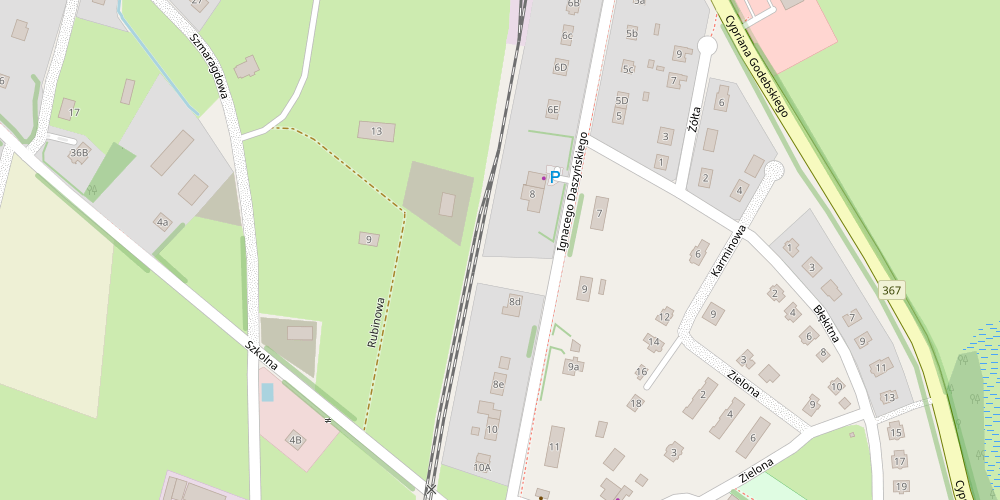
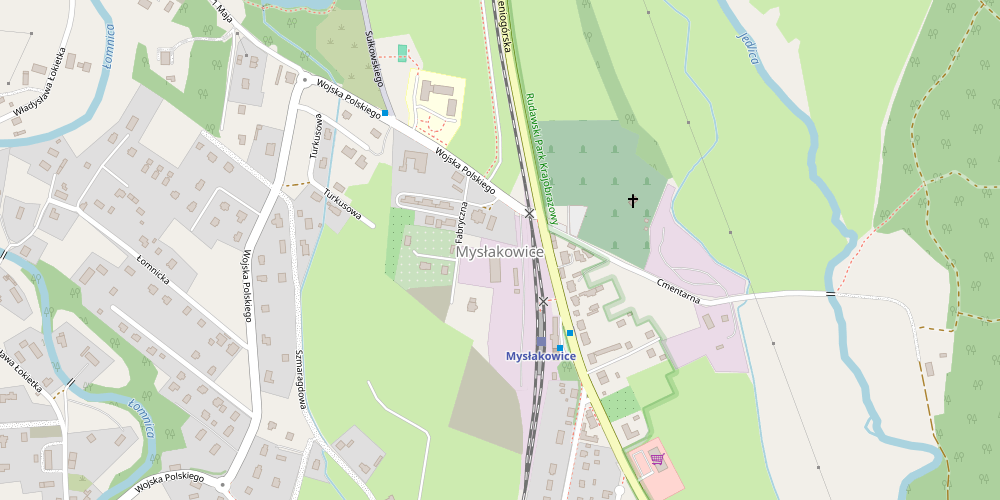
Refine contact panel typography and artwork

diff --git a/index.html b/index.html
@@ -7,15 +7,15 @@
 <title>DobraDecha — narty z charakterem</title>
 <style>
 @import url('https://fonts.googleapis.com/css2?family=Barlow+Condensed:wght@600;700;800;900&family=DM+Sans:wght@400;500;600;700&display=swap');
-:root{--heading-tracking:-.02em;--ink:#111;--paper:#f3f0e5;--pink:#ee0089;--orange:#f94600;--blue:#00c8ff;--line:rgba(17,17,17,.18)}*{box-sizing:border-box}html{scroll-behavior:smooth}body{margin:0;background:var(--paper);color:var(--ink);font-family:'DM Sans',sans-serif}a{color:inherit;text-decoration:none}.wrap{max-width:1240px;margin:auto;padding:0 5.5vw}.topbar{height:112px;border-bottom:1px solid var(--line);display:flex;align-items:center;justify-content:space-between;gap:32px;padding-left:0;padding-right:0}.brand{display:flex;align-items:center;gap:5px;white-space:nowrap;font:900 30px 'Barlow Condensed',sans-serif;letter-spacing:.015em;text-transform:uppercase}.brand-name{display:inline-flex;gap:0;color:var(--ink)}.brand-name i{font-style:normal;color:var(--ink)}.footer .brand-name,.footer .brand-name i{color:var(--paper)}.brand img{width:96px;height:50px;object-fit:contain;flex:none}.footer .brand img{width:78px;height:40px}.brand span{color:var(--pink)}nav{display:flex;align-items:center;gap:42px;margin-left:auto;font-size:15px;font-weight:700;letter-spacing:.025em}nav a:hover{color:var(--pink)}.nav-cta{background:var(--ink);color:white;padding:15px 21px;font-size:13px;font-weight:700;text-transform:uppercase;letter-spacing:.08em}.hero{min-height:660px;display:grid;grid-template-columns:1.02fr .98fr;align-items:center;padding:68px 0 74px;gap:25px;overflow:hidden}.eyebrow{display:flex;align-items:center;gap:10px;font-size:11px;font-weight:700;letter-spacing:.15em;text-transform:uppercase}.dot{width:9px;height:9px;background:var(--pink);border-radius:50%;box-shadow:0 0 0 5px #ff007f22}.hero h1{font:900 clamp(62px,9.2vw,126px)/.94 'Barlow Condensed',sans-serif;letter-spacing:var(--heading-tracking);text-transform:uppercase;margin:30px 0 25px}.hero h1 em{font-style:normal;color:var(--pink)}.hero p{max-width:450px;font-size:16px;line-height:1.7;color:#45433f}.actions{display:flex;gap:12px;margin-top:32px;align-items:center}.button{display:inline-flex;align-items:center;gap:24px;padding:16px 19px;background:var(--ink);color:white;font-size:12px;font-weight:700;text-transform:uppercase;letter-spacing:.07em}.button .arr{font-size:19px;color:var(--blue)}.text-link{font-size:12px;font-weight:700;border-bottom:1px solid var(--ink);padding:11px 0}.hero-art{position:relative;height:490px;background:var(--blue);overflow:hidden;clip-path:none}.hero-art:before{content:none}.art-label{position:absolute;z-index:1;top:24px;left:24px;font:800 12px 'Barlow Condensed';letter-spacing:.14em;text-transform:uppercase;background:var(--ink);color:white;padding:10px 12px}.hero-illustration{display:block;width:100%;height:100%;object-fit:cover}.ski{width:93px;height:430px;border:4px solid var(--ink);border-radius:60px 60px 19px 19px;position:relative;box-shadow:9px 12px 0 #111;overflow:hidden}.ski:nth-child(1){background:repeating-linear-gradient(0deg,#111 0 3px,transparent 3px 30px),linear-gradient(90deg,var(--paper) 0 49%,var(--pink) 49%)}.ski:nth-child(2){height:460px;background:repeating-linear-gradient(0deg,transparent 0 29px,#111 30px 33px),linear-gradient(90deg,var(--orange) 0 50%,var(--blue) 50%)}.ski:nth-child(3){background:repeating-linear-gradient(0deg,#111 0 3px,transparent 3px 30px),linear-gradient(90deg,var(--pink) 0 49%,var(--blue) 49%)}.ski b{position:absolute;top:50%;left:50%;transform:translate(-50%,-50%) rotate(90deg);font:900 24px 'Barlow Condensed';letter-spacing:.1em;background:var(--paper);padding:5px 8px}.art-sticker{position:absolute;z-index:2;bottom:23px;right:22px;background:var(--blue);width:95px;height:95px;border-radius:50%;display:grid;place-items:center;text-align:center;font:900 13px/1.05 'Barlow Condensed';transform:rotate(9deg);border:2px solid var(--ink)}.ticker{background:var(--ink);color:var(--paper);overflow:hidden;white-space:nowrap;padding:13px 0;font:700 14px 'Barlow Condensed';letter-spacing:.15em;text-transform:uppercase}.ticker span{color:var(--blue);padding:0 24px}.section{padding:110px 0}.section-head{display:flex;align-items:end;justify-content:space-between;gap:30px;margin-bottom:40px}.kicker{font-size:11px;letter-spacing:.15em;text-transform:uppercase;font-weight:700;color:#716e68}.section h2{font:900 clamp(45px,7vw,86px)/.9 'Barlow Condensed';letter-spacing:var(--heading-tracking);text-transform:uppercase;margin:12px 0 0}.section h2 em{font-style:normal;color:var(--pink)}.section-head p{max-width:390px;line-height:1.65;color:#555;font-size:14px}.section#narty .section-head{display:block}.section#narty .section-head p{max-width:650px;margin:22px 0 0}.cards{display:grid;grid-template-columns:repeat(3,1fr);gap:15px}.card{min-height:310px;padding:26px;display:flex;flex-direction:column;justify-content:space-between;position:relative;overflow:hidden}.card:nth-child(1){background:var(--pink)}.card:nth-child(2){background:var(--blue)}.card:nth-child(3){background:var(--orange)}.card-no{font:800 12px 'Barlow Condensed';letter-spacing:.14em}.card-art{font:900 86px/.8 'Barlow Condensed';letter-spacing:-.08em;position:absolute;right:22px;top:70px;transform:rotate(-14deg);opacity:.13}.card h3{font:900 30px/.95 'Barlow Condensed';letter-spacing:var(--heading-tracking);text-transform:uppercase;margin:0 0 8px}.card p{font-size:13px;line-height:1.5;max-width:255px;margin:0}.story{background:var(--blue);color:var(--paper);position:relative;isolation:isolate;overflow:hidden}.story:before{content:"";position:absolute;inset:0;z-index:-1;background-image:linear-gradient(90deg,var(--blue) 0%,var(--blue) 34%,rgba(0,200,255,.96) 37%,rgba(0,200,255,.5) 42%,rgba(0,200,255,0) 48%),url("skiers-background.jpg");background-position:left top,right center;background-size:100% 100%,auto 125%;background-repeat:no-repeat}.story .wrap{display:block;position:relative;z-index:1}.story .wrap>div:first-child{max-width:520px;background:var(--ink);padding:clamp(24px,3vw,42px)}.story h2{font:900 clamp(60px,8vw,100px)/.92 'Barlow Condensed';letter-spacing:var(--heading-tracking);text-transform:uppercase;margin:15px 0 25px}.story h2 em{font-style:normal;color:var(--blue)}.story-copy{max-width:460px;color:#c7c4bd;font-size:15px;line-height:1.8}.story-copy strong{color:white}.quote{font:700 26px/1.2 'Barlow Condensed';max-width:400px;margin:25px 0 0;color:var(--blue)}.contact{display:grid;grid-template-columns:1fr 1fr;gap:50px}.contact h2{margin-bottom:22px}.contact p{max-width:440px;line-height:1.7;color:#555}.contact-box{background:var(--blue);padding:35px;display:flex;flex-direction:column;justify-content:center;min-height:255px}.contact-box small{font-size:11px;font-weight:700;letter-spacing:.15em;text-transform:uppercase}.contact-box a{font:900 clamp(28px,4.3vw,52px) 'Barlow Condensed';margin:14px 0}.contact-box .fine{font-size:12px;line-height:1.6}.footer{background:var(--ink);color:white;padding:25px 0;font-size:11px}.footer .wrap{display:flex;align-items:center;justify-content:space-between}.footer a{color:var(--blue)}@media(max-width:1400px) and (min-width:1201px){.story:before{background-size:100% 100%,auto 100%}}@media(max-width:1200px){.story{background:var(--blue)}.story:before{display:none}}@media(max-width:800px){.wrap{padding:0 22px}.topbar{height:88px;gap:12px}.brand{font-size:22px;gap:4px}.brand img{width:68px;height:38px}.footer .brand img{width:58px;height:32px}nav{gap:14px;font-size:13px}nav a:not(.nav-cta){display:none}.hero{grid-template-columns:1fr;padding:55px 0 40px;gap:45px}.hero-art{height:390px}.ski{height:340px;width:72px}.ski:nth-child(2){height:370px}.hero h1{font-size:clamp(64px,14vw,100px);line-height:.98;letter-spacing:var(--heading-tracking)}.section{padding:75px 0}.section-head{display:block}.cards{grid-template-columns:1fr}.card{min-height:245px}.story{background:var(--blue)}.story:before{display:none}.story .wrap{display:block;padding-top:72px;padding-bottom:72px}.story .wrap>div:first-child{max-width:100%}.contact{grid-template-columns:1fr;gap:25px}.footer .wrap{gap:15px;flex-wrap:wrap}}@media(max-width:430px){.topbar{height:78px}.brand{font-size:20px;gap:3px}.brand img{width:56px;height:32px}.footer .brand img{width:48px;height:28px}.nav-cta{padding:10px;font-size:10px}.hero-art{height:330px}.ski{height:290px;width:58px}.ski:nth-child(2){height:315px}.hero h1{font-size:64px;line-height:1;letter-spacing:var(--heading-tracking)}.actions{align-items:flex-start;flex-direction:column}.footer .wrap{display:block}.footer .wrap>*{display:block;margin:8px 0}}
+:root{--heading-tracking:-.02em;--ink:#111;--paper:#f3f0e5;--pink:#ee0089;--orange:#f94600;--blue:#00c8ff;--line:rgba(17,17,17,.18)}*{box-sizing:border-box}html{scroll-behavior:smooth}body{margin:0;background:var(--paper);color:var(--ink);font-family:'DM Sans',sans-serif}a{color:inherit;text-decoration:none}.wrap{max-width:1240px;margin:auto;padding:0 5.5vw}.topbar{height:112px;border-bottom:1px solid var(--line);display:flex;align-items:center;justify-content:space-between;gap:32px;padding-left:0;padding-right:0}.brand{display:flex;align-items:center;gap:5px;white-space:nowrap;font:900 30px 'Barlow Condensed',sans-serif;letter-spacing:.015em;text-transform:uppercase}.brand-name{display:inline-flex;gap:0;color:var(--ink)}.brand-name i{font-style:normal;color:var(--ink)}.footer .brand-name,.footer .brand-name i{color:var(--paper)}.brand img{width:96px;height:50px;object-fit:contain;flex:none}.footer .brand img{width:78px;height:40px}.brand span{color:var(--pink)}nav{display:flex;align-items:center;gap:42px;margin-left:auto;font-size:15px;font-weight:700;letter-spacing:.025em}nav a:hover{color:var(--pink)}.hero{min-height:660px;display:grid;grid-template-columns:1.02fr .98fr;align-items:center;padding:68px 0 74px;gap:25px;overflow:hidden}.eyebrow{display:flex;align-items:center;gap:10px;font-size:11px;font-weight:700;letter-spacing:.15em;text-transform:uppercase}.dot{width:9px;height:9px;background:var(--pink);border-radius:50%;box-shadow:0 0 0 5px #ff007f22}.hero h1{font:900 clamp(62px,9.2vw,126px)/.94 'Barlow Condensed',sans-serif;letter-spacing:var(--heading-tracking);text-transform:uppercase;margin:30px 0 25px}.hero h1 em{font-style:normal;color:var(--pink)}.hero p{max-width:450px;font-size:16px;line-height:1.7;color:#45433f}.actions{display:flex;gap:12px;margin-top:32px;align-items:center}.nav-cta,.button{display:inline-flex;align-items:center;justify-content:space-between;gap:10px;width:clamp(178px,52vw,198px);height:48px;padding:0 16px;background:var(--ink);color:white;font-size:12px;line-height:1.2;font-weight:700;text-transform:uppercase;letter-spacing:.05em;text-decoration:none;transition:background-color .2s,color .2s}.nav-cta b,.button .arr{display:inline-grid;place-items:center;flex:none;width:18px;height:18px;font-size:18px;line-height:1;color:white;transition:color .2s}.nav-cta:hover,.button:hover{background:var(--orange);color:var(--ink)}nav a.nav-cta:hover{color:var(--ink)}.nav-cta:hover b,.button:hover .arr{color:var(--orange);-webkit-text-stroke:.6px var(--ink)}.nav-cta:focus-visible,.button:focus-visible{outline:3px solid var(--orange);outline-offset:3px}.text-link{font-size:12px;font-weight:700;border-bottom:1px solid var(--ink);padding:11px 0}.hero-art{position:relative;height:490px;background:var(--blue);overflow:hidden;clip-path:none}.hero-art:before{content:none}.art-label{position:absolute;z-index:1;top:24px;left:24px;font:800 12px 'Barlow Condensed';letter-spacing:.14em;text-transform:uppercase;background:var(--ink);color:white;padding:10px 12px}.hero-illustration{display:block;width:100%;height:100%;object-fit:cover}.ski{width:93px;height:430px;border:4px solid var(--ink);border-radius:60px 60px 19px 19px;position:relative;box-shadow:9px 12px 0 #111;overflow:hidden}.ski:nth-child(1){background:repeating-linear-gradient(0deg,#111 0 3px,transparent 3px 30px),linear-gradient(90deg,var(--paper) 0 49%,var(--pink) 49%)}.ski:nth-child(2){height:460px;background:repeating-linear-gradient(0deg,transparent 0 29px,#111 30px 33px),linear-gradient(90deg,var(--orange) 0 50%,var(--blue) 50%)}.ski:nth-child(3){background:repeating-linear-gradient(0deg,#111 0 3px,transparent 3px 30px),linear-gradient(90deg,var(--pink) 0 49%,var(--blue) 49%)}.ski b{position:absolute;top:50%;left:50%;transform:translate(-50%,-50%) rotate(90deg);font:900 24px 'Barlow Condensed';letter-spacing:.1em;background:var(--paper);padding:5px 8px}.art-sticker{position:absolute;z-index:2;bottom:23px;right:22px;background:var(--blue);width:95px;height:95px;border-radius:50%;display:grid;place-items:center;text-align:center;font:900 13px/1.05 'Barlow Condensed';transform:rotate(9deg);border:2px solid var(--ink)}.ticker{background:var(--ink);color:var(--paper);overflow:hidden;white-space:nowrap;padding:13px 0;font:700 14px 'Barlow Condensed';letter-spacing:.15em;text-transform:uppercase}.ticker span{color:var(--blue);padding:0 24px}.section{padding:110px 0}.section-head{display:flex;align-items:end;justify-content:space-between;gap:30px;margin-bottom:40px}.kicker{font-size:11px;letter-spacing:.15em;text-transform:uppercase;font-weight:700;color:#716e68}.section h2{font:900 clamp(45px,7vw,86px)/.9 'Barlow Condensed';letter-spacing:var(--heading-tracking);text-transform:uppercase;margin:12px 0 0}.section h2 em{font-style:normal;color:var(--pink)}.section-head p{max-width:390px;line-height:1.65;color:#555;font-size:14px}.section#narty .section-head{display:block}.section#narty .section-head p{max-width:650px;margin:22px 0 0}.cards{display:grid;grid-template-columns:repeat(3,1fr);gap:15px}.card{min-height:310px;padding:26px;display:flex;flex-direction:column;justify-content:space-between;position:relative;overflow:hidden}.card:nth-child(1){background:var(--pink)}.card:nth-child(2){background:var(--blue)}.card:nth-child(3){background:var(--orange)}.card-no{font:800 12px 'Barlow Condensed';letter-spacing:.14em}.card-art{font:900 86px/.8 'Barlow Condensed';letter-spacing:-.08em;position:absolute;right:22px;top:70px;transform:rotate(-14deg);opacity:.13}.card h3{font:900 30px/.95 'Barlow Condensed';letter-spacing:var(--heading-tracking);text-transform:uppercase;margin:0 0 8px}.card p{font-size:13px;line-height:1.5;max-width:255px;margin:0}.story{background:var(--blue);color:var(--paper);position:relative;isolation:isolate;overflow:hidden}.story:before{content:"";position:absolute;inset:0;z-index:-1;background-image:linear-gradient(90deg,var(--blue) 0%,var(--blue) 34%,rgba(0,200,255,.96) 37%,rgba(0,200,255,.5) 42%,rgba(0,200,255,0) 48%),url("skiers-background.jpg");background-position:left top,right center;background-size:100% 100%,auto 125%;background-repeat:no-repeat}.story .wrap{display:block;position:relative;z-index:1}.story .wrap>div:first-child{max-width:520px;background:var(--ink);padding:clamp(24px,3vw,42px)}.story h2{font:900 clamp(60px,8vw,100px)/.92 'Barlow Condensed';letter-spacing:var(--heading-tracking);text-transform:uppercase;margin:15px 0 25px}.story h2 em{font-style:normal;color:var(--blue)}.story-copy{max-width:460px;color:#c7c4bd;font-size:15px;line-height:1.8}.story-copy strong{color:white}.quote{font:700 26px/1.2 'Barlow Condensed';max-width:400px;margin:25px 0 0;color:var(--blue)}.contact{display:grid;grid-template-columns:1fr 1fr;gap:50px}.contact h2{margin-bottom:22px}.contact p{max-width:440px;line-height:1.7;color:#555}.contact-box{background:var(--pink);color:var(--ink);padding:6%;display:flex;flex-direction:column;justify-content:center;min-height:255px;position:relative}.contact-box small{position:absolute;top:22%;left:6%;font-size:11px;font-weight:700;letter-spacing:.15em;text-transform:uppercase;color:var(--ink)}.contact-box a{display:inline-flex;align-items:center;align-self:flex-start;gap:12px;background:transparent;color:var(--ink);padding:0;font:900 clamp(28px,4.3vw,52px) 'Barlow Condensed';margin:24px 0;white-space:nowrap}.contact-box a span:last-child{font-size:.72em;line-height:1;color:var(--ink)}.contact-box .fine{font-size:12px;line-height:1.6}.footer{background:var(--ink);color:white;padding:25px 0;font-size:11px}.footer .wrap{display:flex;align-items:center;justify-content:space-between}.footer a{color:var(--blue)}@media(max-width:1400px) and (min-width:1201px){.story:before{background-size:100% 100%,auto 100%}}@media(min-width:801px) and (max-width:1600px){.hero{min-height:0;padding:34px 0 40px;gap:25px}.hero h1{font-size:clamp(64px,6.5vw,98px);margin:18px 0 16px}.hero p{line-height:1.55}.actions{margin-top:20px}.hero-art{height:clamp(360px,31vw,440px)}}@media(max-width:1200px){.story{background:var(--blue)}.story:before{display:none}}@media(max-width:800px){.wrap{padding:0 22px}.topbar{height:88px;gap:12px}.brand{font-size:22px;gap:4px}.brand img{width:68px;height:38px}.footer .brand img{width:58px;height:32px}nav{gap:14px;font-size:13px}nav a:not(.nav-cta){display:none}.hero{grid-template-columns:1fr;padding:55px 0 40px;gap:45px}.hero-art{height:390px}.ski{height:340px;width:72px}.ski:nth-child(2){height:370px}.hero h1{font-size:clamp(64px,14vw,100px);line-height:.98;letter-spacing:var(--heading-tracking)}.section{padding:75px 0}.section-head{display:block}.cards{grid-template-columns:1fr}.card{min-height:245px}.story{background:var(--blue)}.story:before{display:none}.story .wrap{display:block;padding-top:72px;padding-bottom:72px}.story .wrap>div:first-child{max-width:100%}.contact{grid-template-columns:1fr;gap:25px}.footer .wrap{gap:15px;flex-wrap:wrap}}@media(max-width:430px){.topbar{height:78px}.brand{font-size:20px;gap:3px}.brand img{width:56px;height:32px}.footer .brand img{width:48px;height:28px}.nav-cta{padding:10px;font-size:10px}.hero-art{height:330px}.ski{height:290px;width:58px}.ski:nth-child(2){height:315px}.hero h1{font-size:64px;line-height:1;letter-spacing:var(--heading-tracking)}.actions{align-items:flex-start;flex-direction:column}.footer .wrap{display:block}.footer .wrap>*{display:block;margin:8px 0}}
 
-.location{background:var(--ink);color:var(--paper)}.location-grid{display:grid;grid-template-columns:.8fr 1.2fr;gap:38px;align-items:stretch}.location-info h2{margin:12px 0 24px}.location-info h2 em{color:var(--orange);font-style:normal}.location-info address{font-style:normal;line-height:1.8;color:#c7c4bd}.location-info a{color:var(--orange);font-weight:700}.location-info .location-links{display:grid;gap:12px;margin-top:22px}.location-map{min-height:370px;border:0;background:var(--ink)}.location-map>a{display:block;position:relative}.location-map img{display:block;width:100%;height:auto;aspect-ratio:2/1;object-fit:cover;filter:grayscale(1)}.map-pin{position:absolute;left:75.5%;top:50%;width:30px;height:30px;border:3px solid var(--ink);border-radius:50% 50% 50% 0;background:var(--orange);transform:translate(-50%,-85%) rotate(-45deg);box-shadow:0 2px 5px #1118}.map-pin:after{content:"";position:absolute;width:8px;height:8px;left:8px;top:8px;background:var(--paper);border-radius:50%}.map-credit{display:block;padding:7px 10px;background:var(--ink);color:var(--paper);font-size:11px}.map-credit a{color:var(--orange);text-decoration:underline}@media(max-width:800px){.location-grid{grid-template-columns:1fr;gap:28px}.location-map,.location-map img{min-height:300px}}
+.location{background:var(--ink);color:var(--paper)}.location-grid{display:grid;grid-template-columns:.8fr 1.2fr;gap:38px;align-items:stretch}.location-info h2{margin:12px 0 24px}.location-info h2 em{color:var(--orange);font-style:normal}.location-info address{font-style:normal;line-height:1.8;color:#c7c4bd}.location-info a{color:var(--orange);font-weight:700}.location-info .location-links{display:grid;gap:12px;margin-top:22px}.location-map{min-height:370px;border:0;background:var(--ink)}.location-map>a{display:block;position:relative}.location-map img{display:block;width:100%;height:auto;aspect-ratio:2/1;object-fit:cover;filter:grayscale(1)}.map-pin{position:absolute;left:50%;top:50.2%;width:30px;height:30px;border:3px solid var(--ink);border-radius:50% 50% 50% 0;background:var(--orange);transform:translate(-50%,-85%) rotate(-45deg);box-shadow:0 2px 5px #1118}.map-pin:after{content:"";position:absolute;width:8px;height:8px;left:8px;top:8px;background:var(--paper);border-radius:50%}.map-credit{display:block;padding:7px 10px;background:var(--ink);color:var(--paper);font-size:11px}.map-credit a{color:var(--orange);text-decoration:underline}@media(max-width:800px){.location-grid{grid-template-columns:1fr;gap:28px}.location-map,.location-map img{min-height:300px}}
 </style></head>
 <body>
 <header class="wrap topbar"><a class="brand" href="#start" aria-label="DobraDecha, strona główna"><img src="dobradecha-logo.svg" alt=""><span class="brand-name"><i>Dobra</i>Decha</span></a><nav aria-label="Nawigacja"><a href="#narty">Narty</a><a href="#historia">Nasza pasja</a><a class="nav-cta" href="#kontakt">Zróbmy Twoje narty <b>↗</b></a></nav></header>
 <main id="start"><section class="wrap hero"><div><div class="eyebrow"><i class="dot"></i> Ręcznie robione w Karkonoszach</div><h1>Nie idź<br>na <em>skróty.</em><br>Jedź po<br>swojemu.</h1><p>Customowe narty z drewna, robione z sercem w małym warsztacie u stóp Karkonoszy. Twoja linia. Twoje kolory. Twoja decha.</p><div class="actions"><a class="button" href="#kontakt">Zacznijmy od rozmowy <span class="arr">↗</span></a><a class="text-link" href="#narty">Poznaj DobraDechę ↓</a></div></div><div class="hero-art" aria-label="Kolorowe narty DobraDecha"><div class="art-label">Drewno / śnieg / charakter</div><img class="hero-illustration" src="ski-jump-illustration.svg" alt="Freestyle narciarz w locie nad stokiem"><div class="art-sticker">MADE<br>IN<br>KARKONOSZE</div></div></section>
 <section id="narty" class="wrap section"><div class="section-head"><div><div class="kicker">Rzemiosło, które rusza w góry</div><h2>Twoje narty.<br><em>Twoje zasady.</em></h2></div><p>Każda para zaczyna się od rozmowy. O tym, jak jeździsz, gdzie lubisz skręcić i co chcesz zobaczyć pod stopami.</p></div><div class="cards"><article class="card"><span class="card-no">01 / DREWNO</span><div class="card-art">WOOD</div><div><h3>Serce z drewna</h3><p>Naturalny rdzeń i rzemieślnicza robota z warsztatu. Każda para przechodzi przez moje ręce.</p></div></article><article class="card"><span class="card-no">02 / CHARAKTER</span><div class="card-art">COLOR</div><div><h3>Kolor bez hamulców</h3><p>Wyrazista grafika, która nie ginie w tłumie. Narty mogą wyglądać dokładnie tak, jak chcesz.</p></div></article><article class="card"><span class="card-no">03 / DOPASOWANIE</span><div class="card-art">RIDE</div><div><h3>Pod Twój styl</h3><p>Dobieramy kierunek projektu do Ciebie i Twojej jazdy. Bez katalogowych kompromisów.</p></div></article></div></section>
 <section id="historia" class="story"><div class="wrap section"><div><div class="kicker" style="color:#aaa">Tu zaczyna się każda para</div><h2>Warsztat.<br>Góry.<br><em>Pasja.</em></h2><p class="story-copy">Jestem instruktorem narciarstwa, stolarzem z wyboru oraz doświadczonym inżynierem konstruktorem z zawodu i wykształcenia. Łączę wiedzę techniczną z miłością do jazdy i pracy w drewnie. DobraDecha powstaje w moim warsztacie w <strong>Mysłakowicach, koło Jeleniej Góry</strong> — u stóp Karkonoszy, gdzie każda para zaczyna się od pasji.</p><p class="quote">„Dobra decha ma dawać frajdę, zanim jeszcze spadnie pierwszy śnieg.”</p></div></div></section>
-<section id="kontakt" class="wrap section contact"><div><div class="kicker">Zróbmy coś dobrego</div><h2>Masz pomysł?<br><em>Dawaj znać.</em></h2><p>Opowiedz, jak jeździsz i jakie narty chodzą Ci po głowie. Pogadamy o kształcie, charakterze i kolorach.</p></div><div class="contact-box"><small>Napisz do warsztatu</small><a href="mailto:adam@dobradecha.pl">adam@dobradecha.pl ↗</a><div class="fine">Mysłakowice · koło Jeleniej Góry<br>Warsztat w Karkonoszach</div></div></section><section id="lokalizacja" class="location"><div class="wrap section location-grid"><div class="location-info"><div class="kicker" style="color:#aaa">Kontakt</div><h2>Tu robimy<br><em>DobrąDechę.</em></h2><address><strong>ul. Karminowa 7</strong><br>58-533 Mysłakowice<br>Polska</address><div class="location-links"><a href="mailto:adam@dobradecha.pl">adam@dobradecha.pl</a><a href="tel:+48783216452">+48 783 216 452</a><a href="https://www.google.com/maps/search/?api=1&query=ul.+Karminowa+7,+58-533+Mys%C5%82akowice" target="_blank" rel="noopener">Otwórz trasę w Google Maps ↗</a></div></div><div class="location-map"><a href="https://www.openstreetmap.org/#map=17/50.8319268/15.7899344" target="_blank" rel="noopener" aria-label="Otwórz mapę w OpenStreetMap"><img src="mapa-openstreetmap.png" alt="Statyczna mapa OpenStreetMap okolicy ulicy Karminowej w Mysłakowicach"><span class="map-pin" aria-hidden="true"></span></a><small class="map-credit">© <a href="https://www.openstreetmap.org/copyright" target="_blank" rel="noopener">OpenStreetMap contributors</a></small></div></div></section></main>
+<section id="kontakt" class="wrap section contact"><div><div class="kicker">Zróbmy coś dobrego</div><h2>Masz pomysł?<br><em>Dawaj znać.</em></h2><p>Opowiedz, jak jeździsz i jakie narty chodzą Ci po głowie. Pogadamy o kształcie, charakterze i kolorach.</p></div><div class="contact-box"><small>Napisz do warsztatu</small><a href="mailto:adam@dobradecha.pl"><span>adam@dobradecha.pl</span><span aria-hidden="true">↗</span></a><div class="fine">Mysłakowice · koło Jeleniej Góry<br>Warsztat w Karkonoszach</div></div></section><section id="lokalizacja" class="location"><div class="wrap section location-grid"><div class="location-info"><div class="kicker" style="color:#aaa">Kontakt</div><h2>Tu robimy<br><em>DobrąDechę.</em></h2><address>Mysłakowice<br>Polska</address><div class="location-links"><a href="mailto:adam@dobradecha.pl">adam@dobradecha.pl</a><a href="tel:+48783216452">+48 783 216 452</a><a href="https://www.google.com/maps/search/?api=1&query=50.83656,15.78714" target="_blank" rel="noopener">Otwórz trasę w Google Maps ↗</a></div></div><div class="location-map"><a href="https://www.openstreetmap.org/#map=16/50.83656/15.78714" target="_blank" rel="noopener" aria-label="Otwórz mapę w OpenStreetMap"><img src="mapa-openstreetmap.png" alt="Statyczna mapa OpenStreetMap centrum Mysłakowic z pinezką"><span class="map-pin" aria-hidden="true"></span></a><small class="map-credit">© <a href="https://www.openstreetmap.org/copyright" target="_blank" rel="noopener">OpenStreetMap contributors</a></small></div></div></section></main>
 <footer class="footer"><div class="wrap"><a class="brand" href="#start"><img src="dobradecha-logo.svg" alt=""><span class="brand-name"><i>Dobra</i>Decha</span></a><span>Ręcznie robione narty z drewna · Karkonosze</span><span>© DobraDecha 2026</span></div></footer>
 </body></html>
